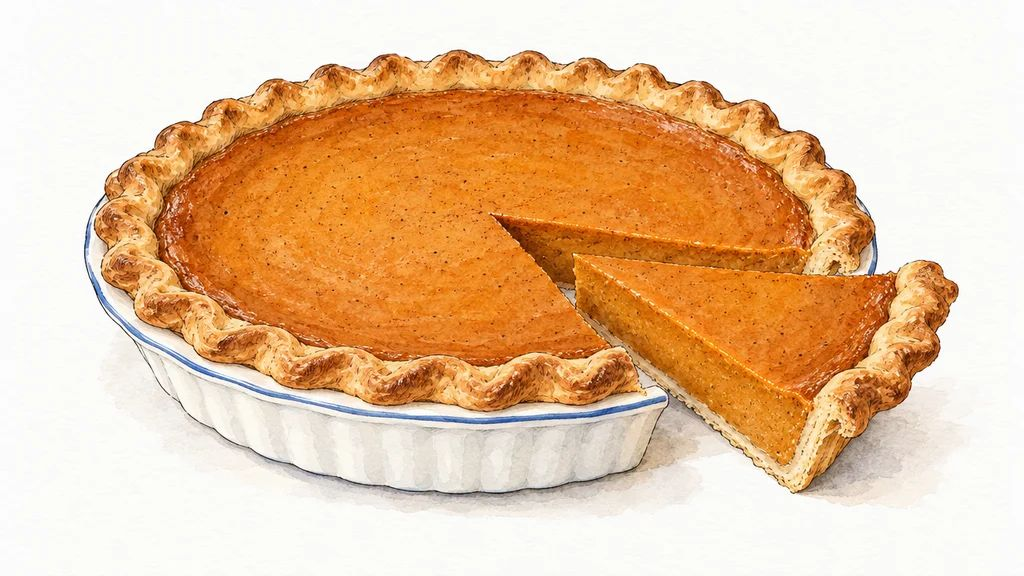
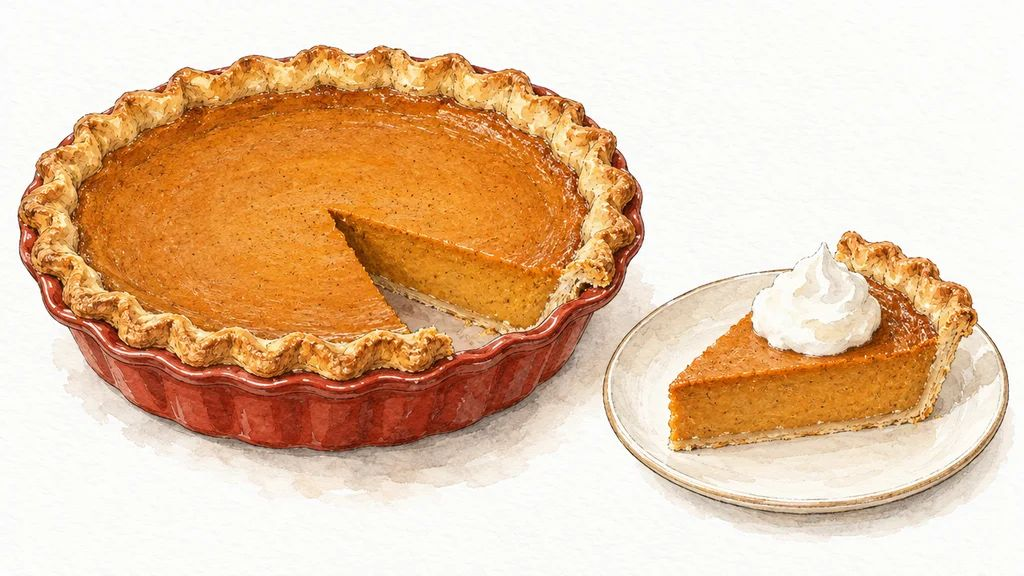
Maple Kitchen: unique vessel per recipe drawing (No. 02-08)
Claude-Session: https://claude.ai/code/session_017NLj44sAgjsFsRNPm4Uvt2

diff --git a/studio/README.md b/studio/README.md
@@ -23,3 +23,5 @@ Guarantee (Jim, Nov 8 2026): all MapleTapper taps, tubing and equipment carry a 
 - Heading on slide 2 is "Ingredients".
 - Uses the watercolor-style logo assets/logo_rough2.png (made by logo_rough.py --strong). Maple Kitchen ONLY; every other post keeps the regular logo.
 - Last slide says the free cookbook is coming until the mapletapper.com/pages/maple-kitchen page and signup email are live (BOOK_LIVE in kitchen.py).
+- Every recipe drawing must look different (it all goes into one cookbook): vary the vessel (mug, jar, skillet, tin, stoneware, copper, glass), its color and the setting (board, coaster, towel, side plate). Log used vessels below and don't repeat back-to-back.
+  - 01 carrots: white oval dish, blue rim · 02 cocoa: speckled brown stoneware mug · 03 granola: glass mason jar · 04 sap tea: glass mug on wooden coaster · 05 pumpkin pie: rust-red stoneware pie dish + slice on cream plate · 06 pecan pie: tin pie pan on wooden board · 07 whipped cream: copper bowl with whisk · 08 sweet potatoes: black cast-iron skillet, linen towel
